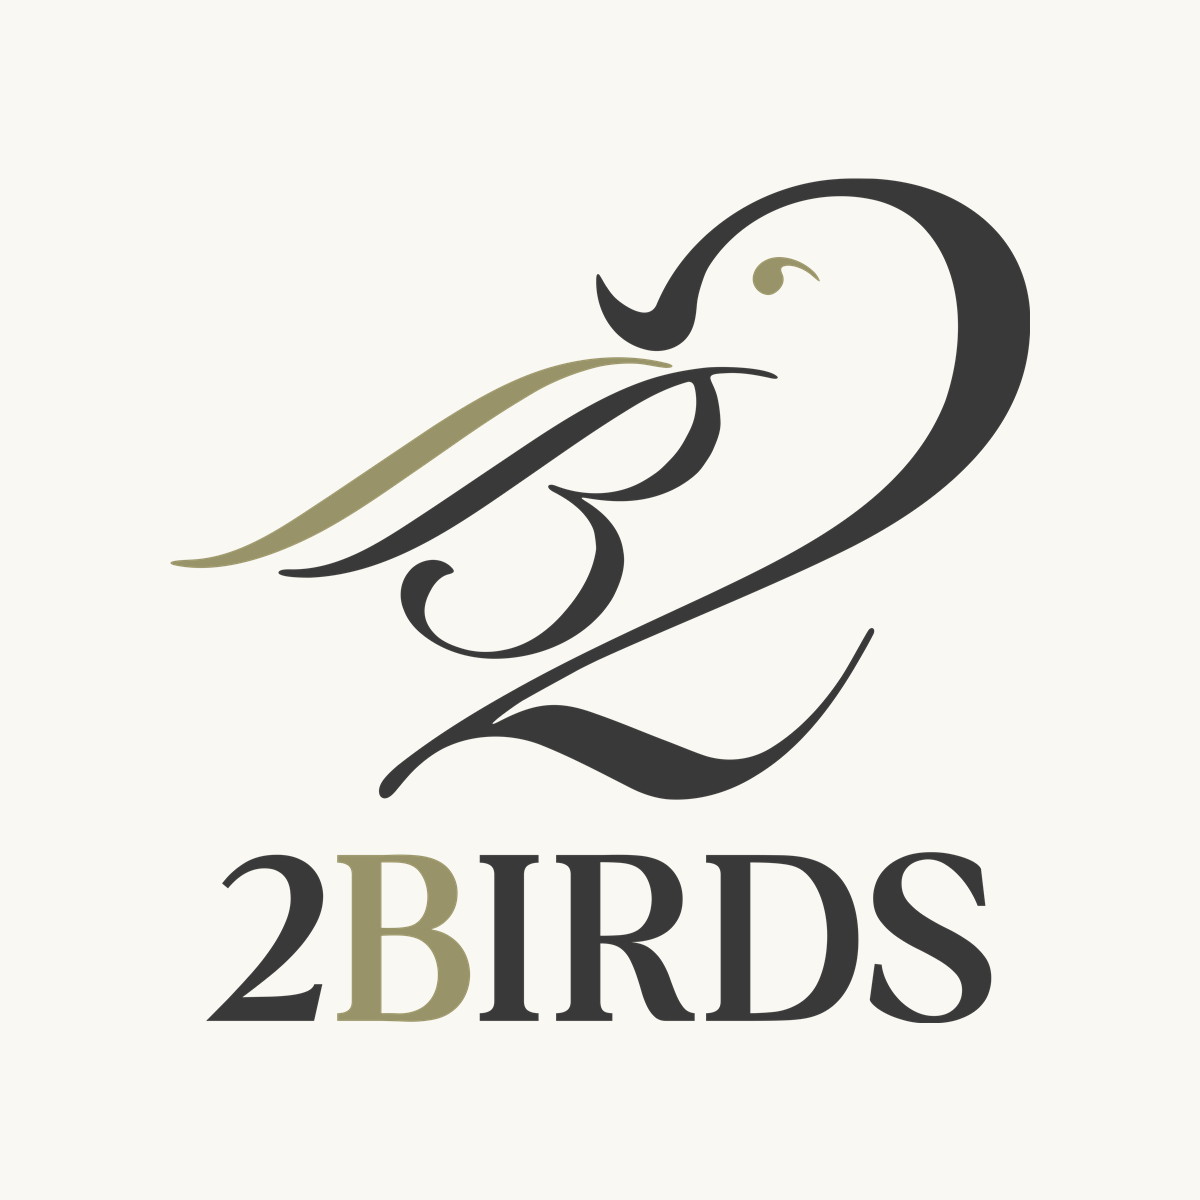
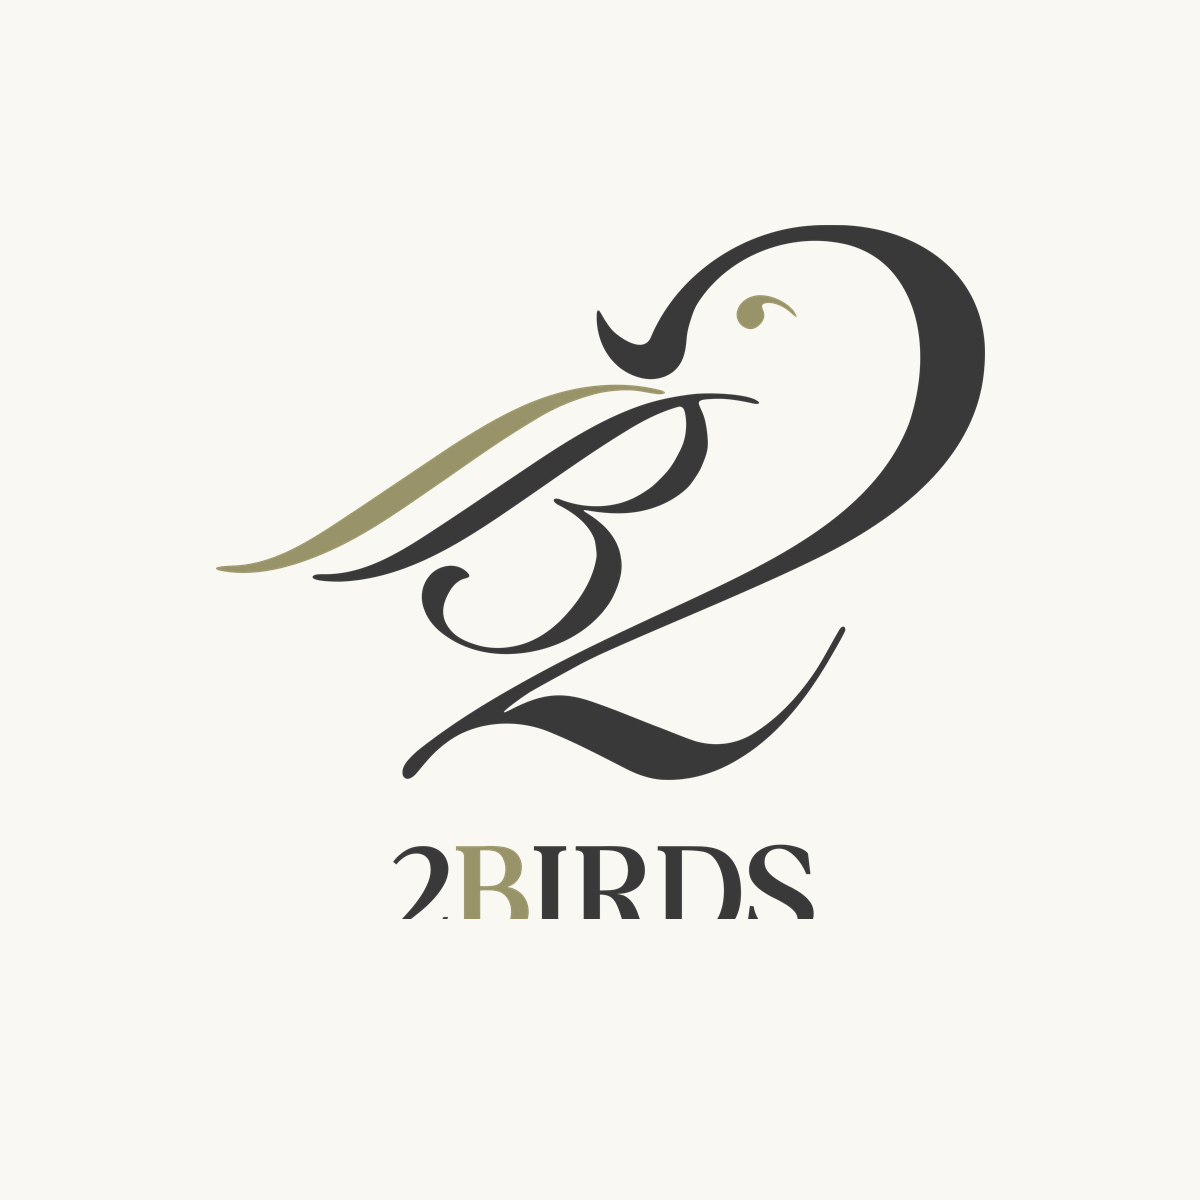
Social sharing: recompose OG image with a smaller, gapped, centered wordmark
The vertical lockup sizes "2BIRDS" almost as wide as the mark and tucks it
right underneath. Rebuild the share image to match the intended brand framing:
bird mark on top, a clear gap, then a smaller centered "2BIRDS" (cropped from
the lockup so it's the exact brand type). Bump image cache v2 -> v3.

Changed region(s): [[0.1542, 0.1233, 0.8633, 0.8633], [0.3083, 0.6167, 0.37, 0.6783]]

diff --git a/revenue.html b/revenue.html
@@ -10,8 +10,8 @@
 <meta property="og:title" content="2birds asia | Revenue" />
 <meta property="og:description" content="Marketing that returns as revenue, for training and adult education. Brand, campaigns, graphic and social design with our in-house creative producer Ng Chen Yao, and personal branding video with PixPlaySG, held within SSG's advertising rules." />
 <meta property="og:url" content="https://2birds.asia/revenue" />
-<meta property="og:image" content="https://2birds.asia/assets/og-image.png?v=2" />
-<meta property="og:image:secure_url" content="https://2birds.asia/assets/og-image.png?v=2" />
+<meta property="og:image" content="https://2birds.asia/assets/og-image.png?v=3" />
+<meta property="og:image:secure_url" content="https://2birds.asia/assets/og-image.png?v=3" />
 <meta property="og:image:type" content="image/png" />
 <meta property="og:image:width" content="1200" />
 <meta property="og:image:height" content="1200" />
@@ -19,7 +19,7 @@
 <meta name="twitter:card" content="summary_large_image" />
 <meta name="twitter:title" content="2birds asia | Revenue" />
 <meta name="twitter:description" content="Marketing that returns as revenue, for training and adult education. Brand, campaigns, graphic and social design with our in-house creative producer Ng Chen Yao, and personal branding video with PixPlaySG, held within SSG's advertising rules." />
-<meta name="twitter:image" content="https://2birds.asia/assets/og-image.png?v=2" />
+<meta name="twitter:image" content="https://2birds.asia/assets/og-image.png?v=3" />
 
 <link rel="icon" type="image/png" href="assets/favicon.png?v=7" />
 <link rel="shortcut icon" type="image/png" href="assets/favicon.png?v=7" />

diff --git a/curriculum.html b/curriculum.html
@@ -10,8 +10,8 @@
 <meta property="og:title" content="2birds asia | Curriculum" />
 <meta property="og:description" content="Curriculum development for Approved Training Organisations — courseware, assessment instruments and trainer guides mapped to the Skills Framework, built to pass TPQA and submitted through TPGateway." />
 <meta property="og:url" content="https://2birds.asia/curriculum" />
-<meta property="og:image" content="https://2birds.asia/assets/og-image.png?v=2" />
-<meta property="og:image:secure_url" content="https://2birds.asia/assets/og-image.png?v=2" />
+<meta property="og:image" content="https://2birds.asia/assets/og-image.png?v=3" />
+<meta property="og:image:secure_url" content="https://2birds.asia/assets/og-image.png?v=3" />
 <meta property="og:image:type" content="image/png" />
 <meta property="og:image:width" content="1200" />
 <meta property="og:image:height" content="1200" />
@@ -19,7 +19,7 @@
 <meta name="twitter:card" content="summary_large_image" />
 <meta name="twitter:title" content="2birds asia | Curriculum" />
 <meta name="twitter:description" content="Curriculum development for Approved Training Organisations — courseware, assessment instruments and trainer guides mapped to the Skills Framework, built to pass TPQA and submitted through TPGateway." />
-<meta name="twitter:image" content="https://2birds.asia/assets/og-image.png?v=2" />
+<meta name="twitter:image" content="https://2birds.asia/assets/og-image.png?v=3" />
 
 <link rel="icon" type="image/png" href="assets/favicon.png?v=7" />
 <link rel="shortcut icon" type="image/png" href="assets/favicon.png?v=7" />

diff --git a/audit.html b/audit.html
@@ -10,8 +10,8 @@
 <meta property="og:title" content="2birds asia | Audit" />
 <meta property="og:description" content="TPQA and CQC compliance advisory for training providers — a pre-audit gap analysis against SSG's criteria, gaps closed and documents in order, long before the audit date." />
 <meta property="og:url" content="https://2birds.asia/audit" />
-<meta property="og:image" content="https://2birds.asia/assets/og-image.png?v=2" />
-<meta property="og:image:secure_url" content="https://2birds.asia/assets/og-image.png?v=2" />
+<meta property="og:image" content="https://2birds.asia/assets/og-image.png?v=3" />
+<meta property="og:image:secure_url" content="https://2birds.asia/assets/og-image.png?v=3" />
 <meta property="og:image:type" content="image/png" />
 <meta property="og:image:width" content="1200" />
 <meta property="og:image:height" content="1200" />
@@ -19,7 +19,7 @@
 <meta name="twitter:card" content="summary_large_image" />
 <meta name="twitter:title" content="2birds asia | Audit" />
 <meta name="twitter:description" content="TPQA and CQC compliance advisory for training providers — a pre-audit gap analysis against SSG's criteria, gaps closed and documents in order, long before the audit date." />
-<meta name="twitter:image" content="https://2birds.asia/assets/og-image.png?v=2" />
+<meta name="twitter:image" content="https://2birds.asia/assets/og-image.png?v=3" />
 
 <link rel="icon" type="image/png" href="assets/favicon.png?v=7" />
 <link rel="shortcut icon" type="image/png" href="assets/favicon.png?v=7" />

diff --git a/brand.html b/brand.html
@@ -10,8 +10,8 @@
 <meta property="og:title" content="2birds asia | Brand" />
 <meta property="og:description" content="The brand story of 2birds. Who we are, why we exist, and how we work. A community of independent practitioners serving Singapore's Training and Adult Education sector." />
 <meta property="og:url" content="https://2birds.asia/brand" />
-<meta property="og:image" content="https://2birds.asia/assets/og-image.png?v=2" />
-<meta property="og:image:secure_url" content="https://2birds.asia/assets/og-image.png?v=2" />
+<meta property="og:image" content="https://2birds.asia/assets/og-image.png?v=3" />
+<meta property="og:image:secure_url" content="https://2birds.asia/assets/og-image.png?v=3" />
 <meta property="og:image:type" content="image/png" />
 <meta property="og:image:width" content="1200" />
 <meta property="og:image:height" content="1200" />
@@ -19,7 +19,7 @@
 <meta name="twitter:card" content="summary_large_image" />
 <meta name="twitter:title" content="2birds asia | Brand" />
 <meta name="twitter:description" content="The brand story of 2birds. Who we are, why we exist, and how we work. A community of independent practitioners serving Singapore's Training and Adult Education sector." />
-<meta name="twitter:image" content="https://2birds.asia/assets/og-image.png?v=2" />
+<meta name="twitter:image" content="https://2birds.asia/assets/og-image.png?v=3" />
 
 <link rel="icon" type="image/png" href="assets/favicon.png?v=7" />
 <link rel="shortcut icon" type="image/png" href="assets/favicon.png?v=7" />

diff --git a/contact.html b/contact.html
@@ -10,8 +10,8 @@
 <meta property="og:title" content="2birds asia | Make an enquiry" />
 <meta property="og:description" content="Write to 2birds. A note about a curriculum, audit, ATO setup or sourcing engagement is enough to begin; you will hear from us within two working days." />
 <meta property="og:url" content="https://2birds.asia/contact" />
-<meta property="og:image" content="https://2birds.asia/assets/og-image.png?v=2" />
-<meta property="og:image:secure_url" content="https://2birds.asia/assets/og-image.png?v=2" />
+<meta property="og:image" content="https://2birds.asia/assets/og-image.png?v=3" />
+<meta property="og:image:secure_url" content="https://2birds.asia/assets/og-image.png?v=3" />
 <meta property="og:image:type" content="image/png" />
 <meta property="og:image:width" content="1200" />
 <meta property="og:image:height" content="1200" />
@@ -19,7 +19,7 @@
 <meta name="twitter:card" content="summary_large_image" />
 <meta name="twitter:title" content="2birds asia | Make an enquiry" />
 <meta name="twitter:description" content="Write to 2birds. A note about a curriculum, audit, ATO setup or sourcing engagement is enough to begin; you will hear from us within two working days." />
-<meta name="twitter:image" content="https://2birds.asia/assets/og-image.png?v=2" />
+<meta name="twitter:image" content="https://2birds.asia/assets/og-image.png?v=3" />
 
 <link rel="icon" type="image/png" href="assets/favicon.png?v=7" />
 <link rel="shortcut icon" type="image/png" href="assets/favicon.png?v=7" />

diff --git a/setup.html b/setup.html
@@ -10,8 +10,8 @@
 <meta property="og:title" content="2birds asia | ATO Setup" />
 <meta property="og:description" content="Sourcing and ATO setup — trainers and subject-matter experts introduced at no cost, with support through registration, accreditation and your first cohort." />
 <meta property="og:url" content="https://2birds.asia/setup" />
-<meta property="og:image" content="https://2birds.asia/assets/og-image.png?v=2" />
-<meta property="og:image:secure_url" content="https://2birds.asia/assets/og-image.png?v=2" />
+<meta property="og:image" content="https://2birds.asia/assets/og-image.png?v=3" />
+<meta property="og:image:secure_url" content="https://2birds.asia/assets/og-image.png?v=3" />
 <meta property="og:image:type" content="image/png" />
 <meta property="og:image:width" content="1200" />
 <meta property="og:image:height" content="1200" />
@@ -19,7 +19,7 @@
 <meta name="twitter:card" content="summary_large_image" />
 <meta name="twitter:title" content="2birds asia | ATO Setup" />
 <meta name="twitter:description" content="Sourcing and ATO setup — trainers and subject-matter experts introduced at no cost, with support through registration, accreditation and your first cohort." />
-<meta name="twitter:image" content="https://2birds.asia/assets/og-image.png?v=2" />
+<meta name="twitter:image" content="https://2birds.asia/assets/og-image.png?v=3" />
 
 <link rel="icon" type="image/png" href="assets/favicon.png?v=7" />
 <link rel="shortcut icon" type="image/png" href="assets/favicon.png?v=7" />

diff --git a/sourcing.html b/sourcing.html
@@ -10,8 +10,8 @@
 <meta property="og:title" content="2birds asia | Sourcing" />
 <meta property="og:description" content="Sourcing trainers and subject-matter experts for Approved Training Organisations, introduced at no markup, with the evidence SSG requires prepared for you." />
 <meta property="og:url" content="https://2birds.asia/sourcing" />
-<meta property="og:image" content="https://2birds.asia/assets/og-image.png?v=2" />
-<meta property="og:image:secure_url" content="https://2birds.asia/assets/og-image.png?v=2" />
+<meta property="og:image" content="https://2birds.asia/assets/og-image.png?v=3" />
+<meta property="og:image:secure_url" content="https://2birds.asia/assets/og-image.png?v=3" />
 <meta property="og:image:type" content="image/png" />
 <meta property="og:image:width" content="1200" />
 <meta property="og:image:height" content="1200" />
@@ -19,7 +19,7 @@
 <meta name="twitter:card" content="summary_large_image" />
 <meta name="twitter:title" content="2birds asia | Sourcing" />
 <meta name="twitter:description" content="Sourcing trainers and subject-matter experts for Approved Training Organisations, introduced at no markup, with the evidence SSG requires prepared for you." />
-<meta name="twitter:image" content="https://2birds.asia/assets/og-image.png?v=2" />
+<meta name="twitter:image" content="https://2birds.asia/assets/og-image.png?v=3" />
 
 <link rel="icon" type="image/png" href="assets/favicon.png?v=7" />
 <link rel="shortcut icon" type="image/png" href="assets/favicon.png?v=7" />

diff --git a/engagement.html b/engagement.html
@@ -10,8 +10,8 @@
 <meta property="og:title" content="2birds asia | Engagement" />
 <meta property="og:description" content="Terms of Engagement for 2BIRDS PRIVATE LIMITED — the conditions on which the practice accepts curriculum, advisory and related engagements." />
 <meta property="og:url" content="https://2birds.asia/engagement" />
-<meta property="og:image" content="https://2birds.asia/assets/og-image.png?v=2" />
-<meta property="og:image:secure_url" content="https://2birds.asia/assets/og-image.png?v=2" />
+<meta property="og:image" content="https://2birds.asia/assets/og-image.png?v=3" />
+<meta property="og:image:secure_url" content="https://2birds.asia/assets/og-image.png?v=3" />
 <meta property="og:image:type" content="image/png" />
 <meta property="og:image:width" content="1200" />
 <meta property="og:image:height" content="1200" />
@@ -19,7 +19,7 @@
 <meta name="twitter:card" content="summary_large_image" />
 <meta name="twitter:title" content="2birds asia | Engagement" />
 <meta name="twitter:description" content="Terms of Engagement for 2BIRDS PRIVATE LIMITED — the conditions on which the practice accepts curriculum, advisory and related engagements." />
-<meta name="twitter:image" content="https://2birds.asia/assets/og-image.png?v=2" />
+<meta name="twitter:image" content="https://2birds.asia/assets/og-image.png?v=3" />
 
 <link rel="icon" type="image/png" href="assets/favicon.png?v=7" />
 <link rel="shortcut icon" type="image/png" href="assets/favicon.png?v=7" />

diff --git a/index.html b/index.html
@@ -10,8 +10,8 @@
 <meta property="og:title" content="2birds asia | Home" />
 <meta property="og:description" content="A practice of curriculum developers, subject-matter experts and adult educators, trusted by Approved Training Organisations (ATOs)." />
 <meta property="og:url" content="https://2birds.asia/" />
-<meta property="og:image" content="https://2birds.asia/assets/og-image.png?v=2" />
-<meta property="og:image:secure_url" content="https://2birds.asia/assets/og-image.png?v=2" />
+<meta property="og:image" content="https://2birds.asia/assets/og-image.png?v=3" />
+<meta property="og:image:secure_url" content="https://2birds.asia/assets/og-image.png?v=3" />
 <meta property="og:image:type" content="image/png" />
 <meta property="og:image:width" content="1200" />
 <meta property="og:image:height" content="1200" />
@@ -19,7 +19,7 @@
 <meta name="twitter:card" content="summary_large_image" />
 <meta name="twitter:title" content="2birds asia | Home" />
 <meta name="twitter:description" content="A practice of curriculum developers, subject-matter experts and adult educators, trusted by Approved Training Organisations (ATOs)." />
-<meta name="twitter:image" content="https://2birds.asia/assets/og-image.png?v=2" />
+<meta name="twitter:image" content="https://2birds.asia/assets/og-image.png?v=3" />
 
 <link rel="icon" type="image/png" href="assets/favicon.png?v=7" />
 <link rel="shortcut icon" type="image/png" href="assets/favicon.png?v=7" />

diff --git a/privacy.html b/privacy.html
@@ -10,8 +10,8 @@
 <meta property="og:title" content="2birds asia | Privacy Policy" />
 <meta property="og:description" content="Privacy Policy for 2BIRDS PRIVATE LIMITED, set out in accordance with Singapore's Personal Data Protection Act 2012." />
 <meta property="og:url" content="https://2birds.asia/privacy" />
-<meta property="og:image" content="https://2birds.asia/assets/og-image.png?v=2" />
-<meta property="og:image:secure_url" content="https://2birds.asia/assets/og-image.png?v=2" />
+<meta property="og:image" content="https://2birds.asia/assets/og-image.png?v=3" />
+<meta property="og:image:secure_url" content="https://2birds.asia/assets/og-image.png?v=3" />
 <meta property="og:image:type" content="image/png" />
 <meta property="og:image:width" content="1200" />
 <meta property="og:image:height" content="1200" />
@@ -19,7 +19,7 @@
 <meta name="twitter:card" content="summary_large_image" />
 <meta name="twitter:title" content="2birds asia | Privacy Policy" />
 <meta name="twitter:description" content="Privacy Policy for 2BIRDS PRIVATE LIMITED, set out in accordance with Singapore's Personal Data Protection Act 2012." />
-<meta name="twitter:image" content="https://2birds.asia/assets/og-image.png?v=2" />
+<meta name="twitter:image" content="https://2birds.asia/assets/og-image.png?v=3" />
 
 <link rel="icon" type="image/png" href="assets/favicon.png?v=7" />
 <link rel="shortcut icon" type="image/png" href="assets/favicon.png?v=7" />

diff --git a/terms.html b/terms.html
@@ -10,8 +10,8 @@
 <meta property="og:title" content="2birds asia | Legal Statement" />
 <meta property="og:description" content="Legal Statement and Terms of Use for the 2birds website, issued by 2BIRDS PRIVATE LIMITED." />
 <meta property="og:url" content="https://2birds.asia/terms" />
-<meta property="og:image" content="https://2birds.asia/assets/og-image.png?v=2" />
-<meta property="og:image:secure_url" content="https://2birds.asia/assets/og-image.png?v=2" />
+<meta property="og:image" content="https://2birds.asia/assets/og-image.png?v=3" />
+<meta property="og:image:secure_url" content="https://2birds.asia/assets/og-image.png?v=3" />
 <meta property="og:image:type" content="image/png" />
 <meta property="og:image:width" content="1200" />
 <meta property="og:image:height" content="1200" />
@@ -19,7 +19,7 @@
 <meta name="twitter:card" content="summary_large_image" />
 <meta name="twitter:title" content="2birds asia | Legal Statement" />
 <meta name="twitter:description" content="Legal Statement and Terms of Use for the 2birds website, issued by 2BIRDS PRIVATE LIMITED." />
-<meta name="twitter:image" content="https://2birds.asia/assets/og-image.png?v=2" />
+<meta name="twitter:image" content="https://2birds.asia/assets/og-image.png?v=3" />
 
 <link rel="icon" type="image/png" href="assets/favicon.png?v=7" />
 <link rel="shortcut icon" type="image/png" href="assets/favicon.png?v=7" />
